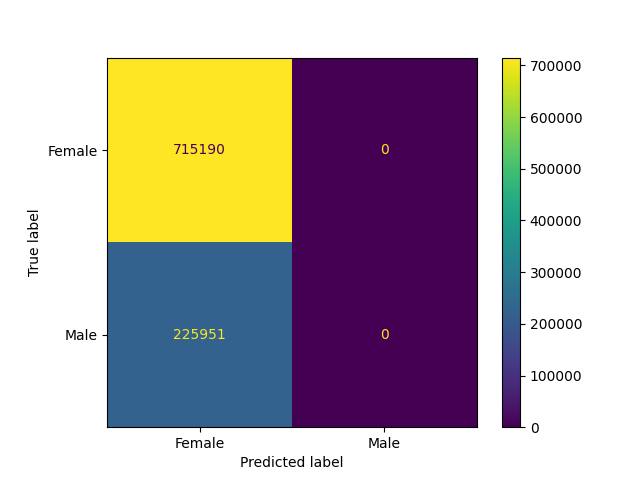
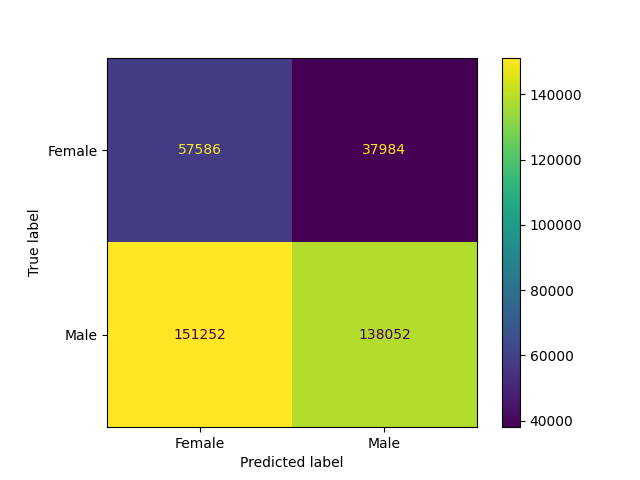
After balancing

diff --git a/task-2/main.py b/task-2/main.py
@@ -1,25 +1,38 @@
 from prepare.get_prepared_data import get_prepared_data
 from sklearn.model_selection import train_test_split
+from sklearn.naive_bayes import GaussianNB, MultinomialNB
 from sklearn.ensemble import RandomForestClassifier
-from sklearn.naive_bayes import ComplementNB, MultinomialNB, GaussianNB
 from metrics.metrics import print_stats, get_roc_curve_plot, learning_curve_plot
 import matplotlib.pyplot as plt
-from sklearn.model_selection import RandomizedSearchCV
-import numpy as np
 from sklearn.model_selection import train_test_split
-from sklearn.decomposition import PCA, IncrementalPCA
+from imblearn.over_sampling import SMOTE, ADASYN
+import numpy as np
+from imblearn.ensemble import BalancedRandomForestClassifier
+from sklearn.ensemble import HistGradientBoostingClassifier
+from imblearn.ensemble import BalancedBaggingClassifier
 
 data, labels = get_prepared_data()
 
 X = data.iloc[:, :-1]
 y = data['SUSP_SEX'].values
 
+
 X_train, X_test, y_train, y_test = train_test_split(
     X, y, train_size=0.7, random_state=0, shuffle=True)
 
+# X_resampled, y_resampled = SMOTE().fit_resample(X_train, y_train)
+
 models = [
-    RandomForestClassifier(
-        n_estimators=350, min_samples_split=6, min_samples_leaf=6, max_depth=20, n_jobs=-1)
+    # GaussianNB(),
+    # MultinomialNB(),
+    # RandomForestClassifier(n_estimators=200, max_depth=20, n_jobs=-1),
+    BalancedRandomForestClassifier(n_estimators=200, max_depth=20, n_jobs=2),
+    BalancedBaggingClassifier(
+        base_estimator=HistGradientBoostingClassifier(random_state=42),
+        n_estimators=100,
+        random_state=42,
+        n_jobs=2,
+    )
 ]
 model_labels = [model.__class__.__name__ for model in models]
 
